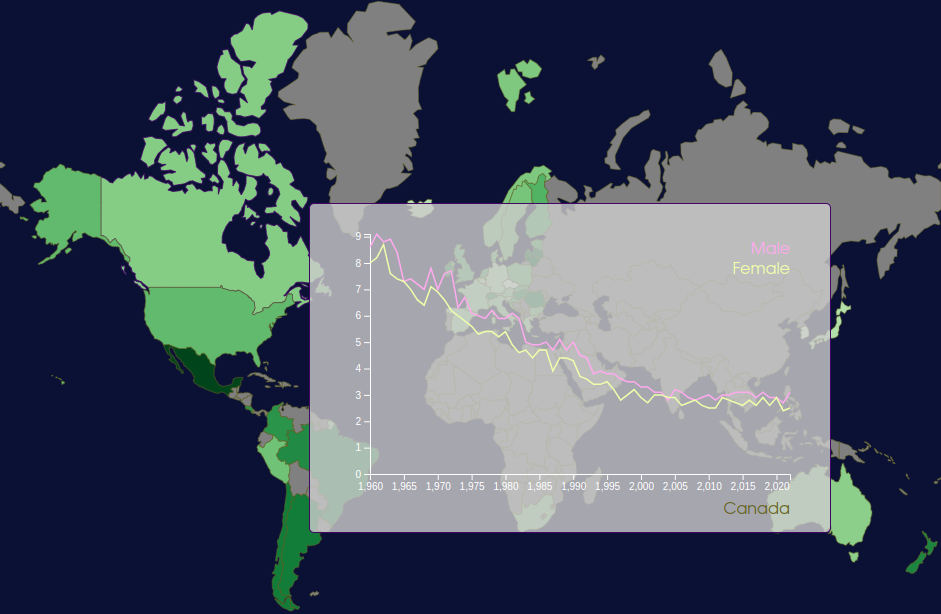
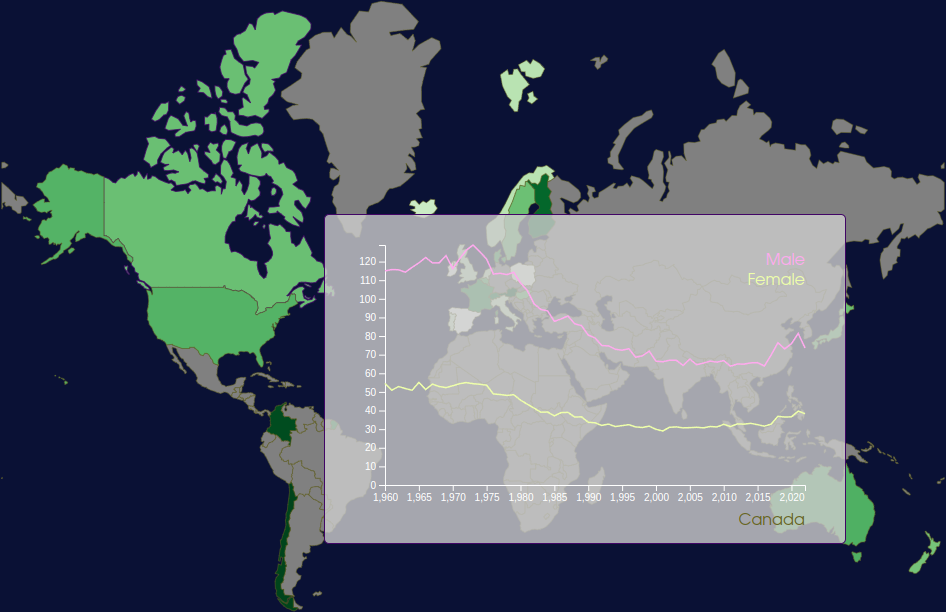
pre-merge cleanup

diff --git a/index.html b/index.html
@@ -3,6 +3,8 @@
 <head>
     <meta charset="UTF-8">
     <meta name="viewport" content="width=device-width, initial-scale=1.0">
+    <meta name="description" content="Data Visualisation, D3">
+    <meta name="keywords" content="HTML, CS, JS, D3">
     <title>Visualising Global Mortality Causes Over Time</title>
     <link rel="stylesheet" href="/css/style.css">
 </head>
@@ -11,83 +13,119 @@
     <header>
         <nav>
             <ul>
-                <li><a href="index.html" id="home">Home</a></li>
-                <li><a href="html/vis1.html" id="vis1nav">Global View</a></li>
-                <li><a href="html/vis2.html" id="vis2nav">Per-Country View</a></li>
+                <li><a href="index.html">Home</a></li>
+                <li><a href="/html/vis1.html">Global View</a></li>
+                <li><a href="/html/vis2.html">Per-Country View</a></li>
             </ul>
         </nav>
-        <h1 id="title">Visualising Global Mortality Causes Over Time</h1>
-        <p id="subheading">How have the proportional rates of various causes of mortality changed over the past sixty years?</p>
+        <h1>Visualising Global Mortality Causes Over Time</h1>
+        <p>Viewing and interacting with sixty years of data from all around the world</p>
     </header>
 
     <main>
         <section class="card">
-            <h2>Visualisation One: Combination Choropleth and Line Chart</h2>
+            <a href="/html/vis1.html"><h2>Visualisation One: Combination Choropleth and Line Chart</h2></a>
 
             <figure>
                 <img id="choropleth-image" src="" alt="">
                 <figcaption id="choropleth-caption"></figcaption>
             </figure>
-            <button id="choropleth-image-button">Change image</button>
 
-            <p>
+            <br>
+            <button id="choropleth-image-button"></button>
+            <br><br>
+
+            <p>This interactive choropleth, built using <a id="a0">D3.js</a>, presents global mortality rates for major 
+                causes of death using data from the <a id="a1">OECD Health Statistics</a> reports. The data are 
+                represented using a colour scale to quantise the relative severity of each cause across different sex, 
+                and year, as well as offering a broad, at-a-glance comparison of any regional mortality patterns.
+                <br><br>
+                When the user hovers over any country on the choropleth, a detailed line chart appears. This line chart 
+                illustrates mortality trends for the selected cause over time, spanning all available historical data. 
+                This interactive feature enables users to not only compare global data but also to examine how a 
+                particular cause of death has evolved in individual countries over the years. This line chart is 
+                intended to serve a similar purpose as a generic tooltip, being that it grants the viewer an additional 
+                level of information on top of the baseline choropoleth visualisation.
+                <br><br>
+                The choropleth is placed on a card-like element, which includes a legend to clarify the available user 
+                interactions - a set of five hotkeys is available for use, each brushing the data in a distinct manner. 
+                Users can filter data dynamically by toggling between different causes and years, enabling the chance to 
+                identify regional or global patterns. The end-user experience has had considerable thought, with ease of 
+                use and intuitive controls at front of mind. For those which suffer a colour-vision deficiency, an 
+                alternate colour palette is accessible with the <code>f</code> (fill) key. For those interested in 
+                scrubbing through the various causes for any particular country while viewing the full-time line chart, 
+                the ability to use the <code>c</code> (cause) hotkey exists. For the baseline choropleth visualisation, 
+                the user is also able to scrub through the years (forwards or backwards) with the left and right arrow 
+                keys, and is able to cycle through the available sexes with the <code>s</code> key.
+                <br><br>
+                The intent for this visualisation was to provide a broad view of global rates of death from various 
+                parent-level categories, rather than flood the viewer with over 50 distinct sub-categories; this design 
+                approach was selected to not over-clutter the data and to ensure that the viewer is able to take in as 
+                much information at a glance as possible without requiring manual thought. Ideally, the ability to view 
+                pockets of geographical trends may allow health professionals, researchers, and even policymakers to 
+                make changes to their understanding and approach towards public health at a global scale.
             </p>
         </section>
 
         <section id="navbuttons">
-            <a href="/html/vis1.html"><button id="vis1">Compare global rates for each cause of mortality</button></a>
-            <a href="/html/vis2.html"><button id="vis2">View all causes of mortality for an individual country</button></a>
+            <a href="/html/vis1.html"><button>Compare global rates for each cause of mortality</button></a>
+            <a href="/html/vis2.html"><button>View data for all causes by decade</button></a>
         </section>
 
         <section class="card">
-            <h2>Visualisation Two: Stacked Area Chart</h2>
+            <a href="/html/vis2.html"><h2>Visualisation Two: Stacked Area Chart</h2></a>
             
-            <!-- <img src="resources/vis2-screenshot.png" alt="Static image of Visualisation Two"> -->
+            <img src="resources/vis2.jpg" alt="Static image of Visualisation Two">
             
-            <p>This visaulisation is of mortality data using a stacked bar chart. This is to showcase trends in deaths causes by
-                a varity of different causes of mortality over time, grouped by decades. It allows users to interactively explore
-                the causes of death by selecting specific gender, countries and causes, filtering the data dynamically.
+            <p>This visaulisation is of mortality data using a stacked bar chart. This is to showcase trends in deaths 
+                causes by a varity of different causes of mortality over time, grouped by decades. It allows users to 
+                interactively explore the causes of death by selecting specific gender, countries and causes, filtering 
+                the data dynamically.
                 <br><br>
-                The visualisation features colour-coded bars, where each cause of death is represented by a specific color, making
-                it easier to compare. A tooltip is also added to provide further detail about specific causes and their associated
-                death rates when users hover over the bar. There is a slight transition that also occurs when users do hover over a bar.
+                The visualisation features colour-coded bars, where each cause of death is represented by a specific 
+                color, making it easier to compare. A tooltip is also added to provide further detail about specific 
+                causes and their associated death rates when users hover over the bar. There is a slight transition that 
+                also occurs when users do hover over a bar.
                 <br><br>
-                Lastly, a legend table is provided to provide clarity to users for what each cause colour represents as well as enabling users
-                to toggle causes on and off. This updates the chart dynamically and shows only the selected causes. The causes filter restarts
-                when users choose a different country/sex.
+                Lastly, a legend table is provided to provide clarity to users for what each cause colour represents as 
+                well as enabling users to toggle causes on and off. This updates the chart dynamically and shows only 
+                the selected causes. The causes filter restarts when users choose a different country/sex.
                 <br><br>
-                This is useful for public health professional, researchers, policymakers or people interested in mortality who want to track how
-                mortality patterns evolve, identify patterns, prominent causes of death  in different countries, or evaluate the impact of
-                health interventions over time. By visualisaing this data in a stacked bar chart, users can gain insights into trends quickly that would
-                be difficult to see through raw datasets.
+                This is useful for public health professional, researchers, policymakers or people interested in 
+                mortality who want to track how mortality patterns evolve, identify patterns, prominent causes of death 
+                in different countries, or evaluate the impact of health interventions over time. By visualisaing this 
+                data in a stacked bar chart, users can gain insights into trends quickly that would be difficult to see 
+                through raw datasets.
                 <br><br>
-                Muzner's guidelines and Tufte's design principles were taken into consideration when developing the stacked bar chart. The chart design
-                emphiased on accuracy, clarity and effiency in portraying the data. Munzner's guideline focused on matching visual representation to the task,
-                using appriopiate encodings, and balancing usability and complexity. While Tufte's principles of avoiding unncessary clutter, implementing
-                data-ink maximisation and making sure that every visual element provides a purpose in communicating data insight. As a result of
-                these principles, they help to create an informative and inuttive visualisaiton.
+                Muzner's guidelines and Tufte's design principles were taken into consideration when developing the 
+                stacked bar chart. The chart design emphiased on accuracy, clarity and effiency in portraying the data. 
+                Munzner's guideline focused on matching visual representation to the task, using appriopiate encodings, 
+                and balancing usability and complexity. While Tufte's principles of avoiding unncessary clutter, 
+                implementing data-ink maximisation and making sure that every visual element provides a purpose in 
+                communicating data insight. As a result of these principles, they help to create an informative and 
+                inuttive visualisaiton.
             </p>
         </section>
 
+        <br>
         <section class="card">
             <h2>Data Sources and Transformation</h2>
 
-            <p>All data were sourced from the <a href="https://www.oecd-ilibrary.org/social-issues-migration-health/data/oecd-health-statistics_health-data-en">OECD Health Statistics</a> 
-                datasets. The <a href="https://www.oecd-ilibrary.org/social-issues-migration-health/data/oecd-health-statistics/oecd-health-data-health-status_data-00540-en?parentId=http%3A%2F%2Finstance.metastore.ingenta.com%2Fcontent%2Fcollection%2Fhealth-data-en">Health status</a> 
-                dataset includes data about <a href="https://data-explorer.oecd.org/vis?fs[0]=Topic%2C1%7CHealth%23HEA%23%7CHealth%20status%23HEA_STA%23&pg=0&fc=Topic&bp=true&snb=16&df[ds]=dsDisseminateFinalDMZ&df[id]=DSD_HEALTH_STAT%40DF_COM&df[ag]=OECD.ELS.HD&df[vs]=1.0">Causes of mortality</a>
-                , which formed the foundation of our final data.
-                <br>
+            <p>All data were sourced from the <a id="a2"> OECD Health Statistics</a> datasets. The <a id="a3">Health 
+                status</a> dataset includes data about <a id="a4">Causes of mortality</a>, which formed the foundation 
+                of our final data.
+                <br><br>
                 The unfiltered dataset contains ~952,000 data points, and was transformed in a relatively simple manner 
-                to reduce the overall size and bloat. As introduced in previous Data Science units, <a href="https://www.knime.com">KNIME</a> 
-                was utilised to smoothly mould our data to a more desirable form.
+                to reduce the overall size and bloat. As introduced in previous Data Science units, <a id="a5">KNIME</a> 
+                was utilised to smoothly mould our data into a more desirable form.
             </p>
         </section>
+        <br>
+        <a id="a-top" href="#top">to top</a>
     </main>
 
     <footer>
-        This website was designed and built by <code>redacted</code> and <code>redacted</code>.
-        <br>
-        Subscribe to our Patreon for more.
+        COS30045 Data Visualisation<br>TP2, 2024
     </footer>
 </body>
 <script src="/js/index.js"></script>

diff --git a/js/index.js b/js/index.js
@@ -1,23 +1,34 @@
-// Cycles through the choropleth images when button is pressed.
-
+// Cycle through the choropleth images when button is pressed
 let image = document.getElementById("choropleth-image");
 let caption = document.getElementById("choropleth-caption");
+let button = document.getElementById("choropleth-image-button");
 
 let altImage = false;
 
 function updateImage() {
-  if (altImage) {
+  altImage = !altImage;
+  if (!altImage) {
     image.src = "../resources/choropleth-basecolour.png";
     image.alt = "Initial view of the choropleth visualisation";
     caption.innerHTML = "<em>View of the choropleth visualisation with default settings</em>";
+    button.innerHTML = "Alternate View";
   }
   else {
     image.src = "../resources/choropleth-altcolour.png";
     image.alt = "Alternate view of the choropleth visualisation with secondary colours and line chart";
     caption.innerHTML = "<em>Alternate view of the choropleth visualisation with a different colour palette, and with the line chart displayed</em>";
+    button.innerHTML = "Default View";
   }
-  altImage = !altImage;
 }
 
-document.getElementById("choropleth-image-button").addEventListener("click", updateImage);
+button.addEventListener("click", updateImage);
 updateImage();
+
+
+// Insert anchor hrefs on load
+document.getElementById("a0").href="https://d3js.org/";
+document.getElementById("a1").href="https://www.oecd-ilibrary.org/social-issues-migration-health/data/oecd-health-statistics_health-data-en";
+document.getElementById("a2").href="https://www.oecd-ilibrary.org/social-issues-migration-health/data/oecd-health-statistics_health-data-en";
+document.getElementById("a3").href="https://www.oecd-ilibrary.org/social-issues-migration-health/data/oecd-health-statistics/oecd-health-data-health-status_data-00540-en?parentId=http%3A%2F%2Finstance.metastore.ingenta.com%2Fcontent%2Fcollection%2Fhealth-data-en";
+document.getElementById("a4").href="https://data-explorer.oecd.org/vis?fs[0]=Topic%2C1%7CHealth%23HEA%23%7CHealth%20status%23HEA_STA%23&pg=0&fc=Topic&bp=true&snb=16&df[ds]=dsDisseminateFinalDMZ&df[id]=DSD_HEALTH_STAT%40DF_COM&df[ag]=OECD.ELS.HD&df[vs]=1.0";
+document.getElementById("a5").href="https://www.knime.com";

diff --git a/html/vis1.html b/html/vis1.html
@@ -3,6 +3,8 @@
 <head>
     <meta charset="UTF-8">
     <meta name="viewport" content="width=device-width, initial-scale=1.0">
+    <meta name="description" content="Data Visualisation, D3">
+    <meta name="keywords" content="HTML, CS, JS, D3">
     <title>Global Standardised Deaths by Cause over Time</title>
     <link rel="stylesheet" href="/css/style.css">
     <script src="https://d3js.org/d3.v7.min.js"></script>
@@ -12,13 +14,13 @@
     <header>
         <nav>
             <ul>
-                <li><a href="/index.html" id="home">Home</a></li>
-                <li><a href="vis1.html" id="vis1nav">Global View</a></li>
-                <li><a href="vis2.html" id="vis2nav">Per-Country View</a></li>
+                <li><a href="/index.html">Home</a></li>
+                <li><a href="/html/vis1.html">Global View</a></li>
+                <li><a href="/html/vis2.html">Per-Country View</a></li>
             </ul>
         </nav>
-        <h1 id="title">Visualising Global Mortality Causes Over Time</h1>
-        <p id="subheading">Deaths per 100,000 inhabitants per Cause of Mortality</p>
+        <h1>Visualising Global Mortality Causes Over Time</h1>
+        <p>Deaths per 100,000 inhabitants per Cause of Mortality</p>
     </header>
 
     <main>
@@ -34,9 +36,7 @@
     </main>
 
     <footer>
-        This website was designed and built by <code>redacted</code> and <code>redacted</code>.
-        <br>
-        Follow us on Pinterest for more.
+        COS30045 Data Visualisation<br>TP2, 2024
     </footer>
 </body>
 <script src="/js/vis1.js"></script>

diff --git a/js/vis1.js b/js/vis1.js
@@ -9,8 +9,8 @@ const LINE_CHART_HEIGHT = 300 - LINE_CHART_MARGIN.top - LINE_CHART_MARGIN.bottom
 const COLOUR_BORDER_DEFAULT = "#666420";
 const COLOUR_BORDER_HIGHLIGHT = "#420666";
 const COLOUR_NO_VALUE = "#808080";
-const COLOUR_MALE = "#ffaaee";
-const COLOUR_FEMALE = "#eeffaa";
+const COLOUR_MALE = "#333888";
+const COLOUR_FEMALE = "#420420";
 const COLOUR_POPUP_FRAME = "#CCCCCCCC"; // 8-digit hex, incl. opacity
 const STROKE_WIDTH_DEFAULT = "0.5px";
 const STROKE_WIDTH_HIGHLIGHT = "0.8px";
@@ -322,11 +322,11 @@ function createYears(rangeYears) {
 // Create legend for hotkeys
 let hotkeys = [
     {key: "c", description: "Change cause"},
-    {key: "f", description: "Change colour palette"},
+    {key: "f", description: "Change fill"},
     {key: "s", description: "Change sex"},
     {key: "ArrowLeft", description: "Previous year"},
     {key: "ArrowRight", description: "Next year"},
-    {key: "hover", description: "Hover over a country to view the timeline"},
+    {key: "hover", description: "View timeline for country"},
 ];
 
 let legend = d3.select("#hotkey-legend")

diff --git a/css/style.css b/css/style.css
@@ -24,6 +24,7 @@ input, button, select {
 
 html {
     hanging-punctuation: first last;
+    scroll-behavior: smooth;
 }
 
 body {
@@ -71,9 +72,13 @@ h1 {
     margin: 20px auto;
     max-width: 80%;
 
-    a:hover {
-        text-decoration: none;
-        color: var(--colour-text-highlight);
+    a > h2 {
+        color: white;
+
+        &:hover {
+            text-decoration: none;
+            color: var(--colour-text-highlight);
+        }
     }
 }
 
@@ -90,6 +95,11 @@ h1 {
             cursor: pointer;
         }
     }
+}
+
+#a-top {
+    color: white;
+    font-style: italic;
 }
 
 footer {
